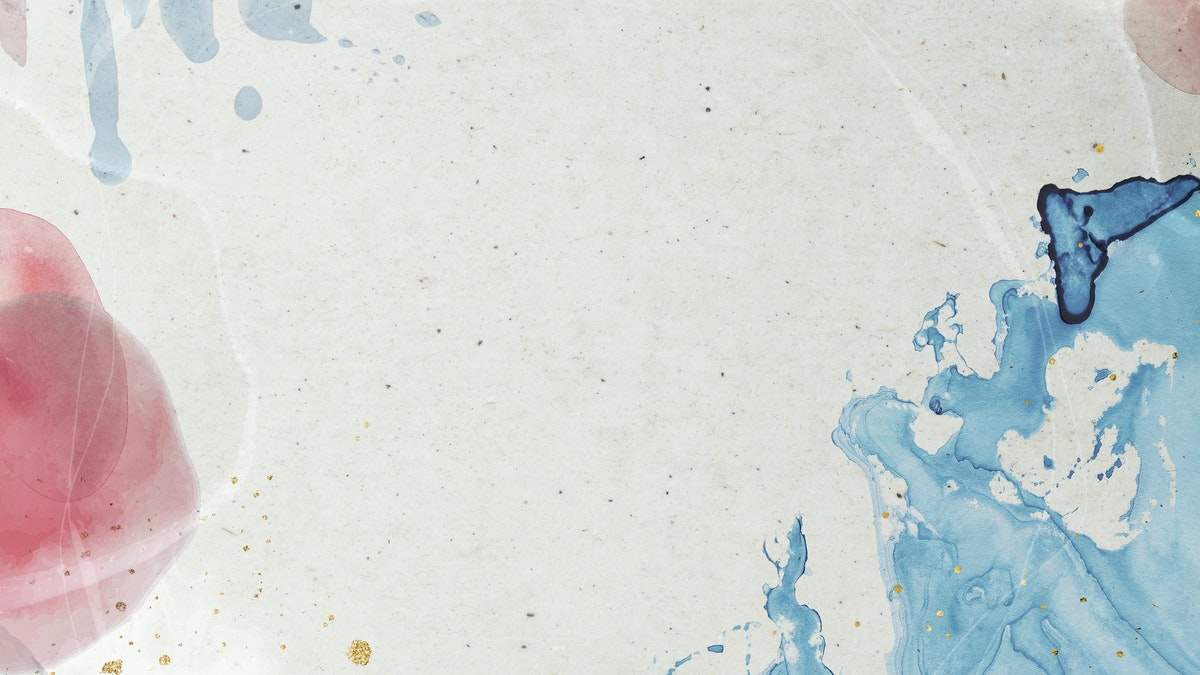
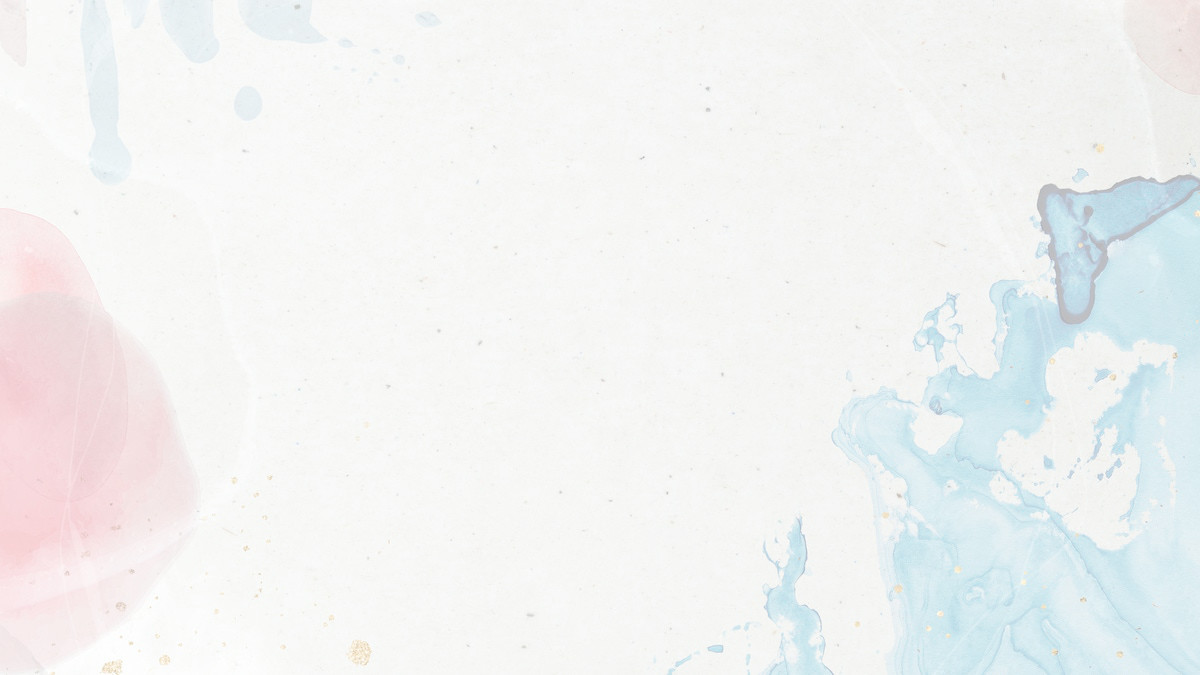
Fix css error. Replace background image

diff --git a/assets/css/style.css b/assets/css/style.css
@@ -12,11 +12,10 @@ h1, h2, p {
 
 /* Body */
 body {
+    height: 100%;
     color: #7A5362;
     background-color: antiquewhite;
-    /*  Code from datacadmia for background opacity
-        https://datacadamia.com/web/css/opacity#background_image_opacity */
-    background-image: linear-gradient(to right, rgba(255, 255, 255, 0.9) 0 100%), url(../images/background-image.jpg);
+    background-image:url(../images/background-image.jpg);
     background-size: cover;
 }
 
